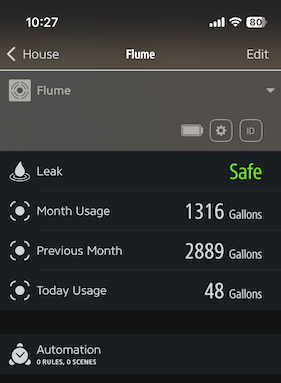
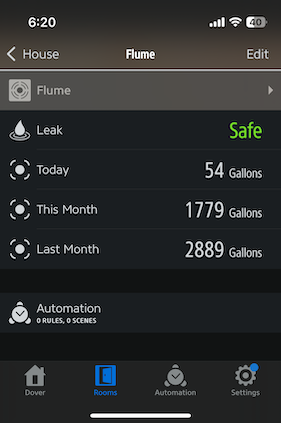
Fixing broken images on some browers

diff --git a/README.md b/README.md
@@ -1,5 +1,5 @@
 <p align="center">
-<img src="https://github.com/mpatfield/homebridge-flume/blob/latest/img/banner.png" width="600">
+<img src="https://github.com/mpatfield/homebridge-flume/blob/latest/img/banner.png?raw=true" width="600">
 </p>
 
 <span align="center">
@@ -23,11 +23,11 @@ This plugin is independently developed and is not in any way affiliated with or 
 
 Once you have completed [Configuration](https://github.com/mpatfield/homebridge-flume#configuration) you will see a new leak sensor pop up in your Home app. If the sensor detetcs a leak, you will receive a HomeKit notification and can setup automations to react to state changes.
 
-<img src="https://github.com/mpatfield/homebridge-flume/blob/latest/img/screenshot_1.png"> <img src="https://github.com/mpatfield/homebridge-flume/blob/latest/img/screenshot_2.png">
+<img src="https://github.com/mpatfield/homebridge-flume/blob/latest/img/screenshot_1.png?raw=true"> <img src="https://github.com/mpatfield/homebridge-flume/blob/latest/img/screenshot_2.png?raw=true">
 
 If you use a more advanced HomeKit app like [Eve](https://apps.apple.com/us/app/eve-for-matter-homekit/id917695792) or [Controller for Homekit](https://apps.apple.com/us/app/controller-for-homekit/id1198176727), you will see some additional information about your water use. Unfortunately, Apple currently doesn't offer a way to display this in the Home app.
 
-<img src="https://github.com/mpatfield/homebridge-flume/blob/latest/img/screenshot_3.png">
+<img src="https://github.com/mpatfield/homebridge-flume/blob/latest/img/screenshot_3.png?raw=true">
 
 ## Configuration
 